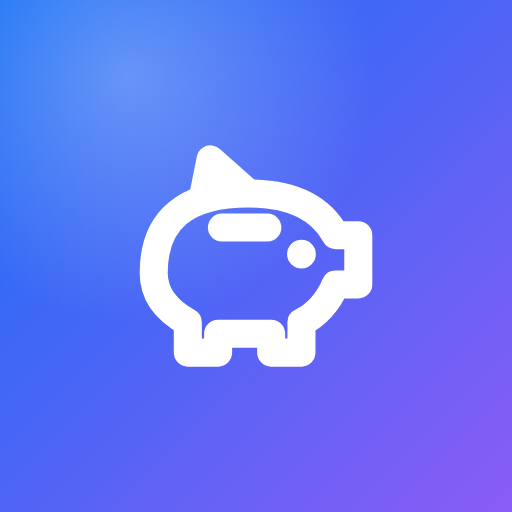
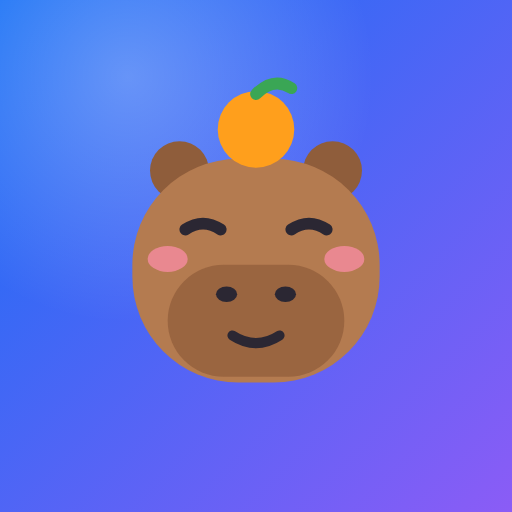
Site principal: abertura só com o rosto da capivara e ícone novo
Claude-Session: https://claude.ai/code/session_017XzR5RWQPSYUH6UPubdo7U

Changed region(s): [[0.25, 0.125, 0.75, 0.75]]

diff --git a/index.html b/index.html
@@ -974,6 +974,15 @@ html.auth .auth-screen { display: grid; place-items: center; }
 .ob-splash.gone .stk { transform: translate(var(--ox), var(--oy)) rotate(25deg) scale(.6); }
 .ob-splash .ob-word { position: relative; z-index: 1; color: var(--ink); transition: transform .6s cubic-bezier(.6, 0, .3, 1), opacity .4s; }
 .ob-splash.gone .ob-word { transform: scale(1.15); opacity: 0; }
+/* abertura no estilo Duolingo: só o rosto da capivara, grande, pulando pra dentro, a laranja quicando */
+.ob-face { width: clamp(170px, 44vw, 240px); aspect-ratio: 1; filter: drop-shadow(0 26px 34px rgba(110, 70, 40, .35)); animation: face-in .8s cubic-bezier(.2, .9, .25, 1.45) .1s both, face-chill 2.4s ease-in-out 1s infinite; transition: transform .55s cubic-bezier(.6, 0, .3, 1), opacity .4s; }
+.ob-face svg { width: 100%; height: 100%; display: block; overflow: visible; }
+.ob-face .fruit { transform-box: fill-box; transform-origin: 50% 100%; animation: face-fruit .6s cubic-bezier(.3, 1.6, .5, 1) .75s 2 both; }
+:root[data-theme="dark"] .ob-face { filter: drop-shadow(0 0 40px rgba(255, 190, 120, .25)) drop-shadow(0 24px 30px rgba(0, 0, 0, .5)); }
+.ob-splash.gone .ob-face { transform: scale(1.25); opacity: 0; }
+@keyframes face-in { from { opacity: 0; transform: translateY(40px) scale(.35) rotate(-10deg); } }
+@keyframes face-chill { 50% { transform: rotate(-4deg) translateY(-4px); } }
+@keyframes face-fruit { 40% { transform: translateY(-38%) rotate(-14deg); } 70% { transform: translateY(4%); } }
 .ob-word { text-align: center; }
 .ob-mascot { display: block; width: clamp(72px, 9vw, 96px); margin: 0 auto 14px; animation: ob-word .9s cubic-bezier(.2, .9, .25, 1.4) .1s both; } .ob-mascot .av { width: 100%; height: auto; aspect-ratio: 1; box-shadow: 0 18px 36px -16px rgba(140, 90, 50, .55); }
 .ob-word > span { display: block; font-size: clamp(2.8rem, 10vw, 5rem); font-weight: 600; letter-spacing: -.055em; line-height: 1; animation: ob-word .9s cubic-bezier(.2, .9, .25, 1.25) .25s both; }
@@ -6543,9 +6552,8 @@ button:focus-visible, a:focus-visible, [role="button"]:focus-visible, [tabindex]
     const first = !reduced && !showOnboarding.seen; showOnboarding.seen = true;
     let introDone = false;
     $('#authScreen').innerHTML = `<div class="ob-bg" aria-hidden="true"><i></i><i></i><i></i></div><div class="ob-stk" id="obStk"></div>
-      ${first ? `<div class="ob-splash" id="obSplash" aria-hidden="true">${[[22, 24, 1.6, -12, 'moeda'], [76, 20, 1.25, 14, 'grafico'], [16, 70, 1.2, 10, 'cartao'], [80, 72, 1.7, -8, 'cofrinho'], [50, 12, .9, 6, 'carteira'], [52, 86, 1, -10, 'nota']]
-          .map(([x, y, sz, rot, f], n) => stickerHtml(x, y, sz, rot, f, STK_COLORS[n], n, `--ox:${(x - 50) * 3}vw;--oy:${(y - 50) * 3}vh`)).join('')}
-        <div class="ob-word"><i class="ob-mascot">${avBadge('capivara')}</i><span>Capi</span><small>seu dinheiro, de boa</small></div></div>` : ''}
+      ${first ? `<div class="ob-splash" id="obSplash" aria-hidden="true">
+        <div class="ob-face"><svg viewBox="0 0 64 64">${AVATARS.capivara.svg}</svg></div></div>` : ''}
       <div class="ob" id="ob">
       <div class="ob-top"><div class="ob-dots" id="obDots"></div><div class="ob-tr">
         <button type="button" class="ob-theme" id="obTheme" role="switch" aria-checked="${document.documentElement.dataset.theme === 'dark'}" aria-label="Modo escuro" title="Modo escuro">

diff --git a/preview.html b/preview.html
@@ -974,6 +974,15 @@ html.auth .auth-screen { display: grid; place-items: center; }
 .ob-splash.gone .stk { transform: translate(var(--ox), var(--oy)) rotate(25deg) scale(.6); }
 .ob-splash .ob-word { position: relative; z-index: 1; color: var(--ink); transition: transform .6s cubic-bezier(.6, 0, .3, 1), opacity .4s; }
 .ob-splash.gone .ob-word { transform: scale(1.15); opacity: 0; }
+/* abertura no estilo Duolingo: só o rosto da capivara, grande, pulando pra dentro, a laranja quicando */
+.ob-face { width: clamp(170px, 44vw, 240px); aspect-ratio: 1; filter: drop-shadow(0 26px 34px rgba(110, 70, 40, .35)); animation: face-in .8s cubic-bezier(.2, .9, .25, 1.45) .1s both, face-chill 2.4s ease-in-out 1s infinite; transition: transform .55s cubic-bezier(.6, 0, .3, 1), opacity .4s; }
+.ob-face svg { width: 100%; height: 100%; display: block; overflow: visible; }
+.ob-face .fruit { transform-box: fill-box; transform-origin: 50% 100%; animation: face-fruit .6s cubic-bezier(.3, 1.6, .5, 1) .75s 2 both; }
+:root[data-theme="dark"] .ob-face { filter: drop-shadow(0 0 40px rgba(255, 190, 120, .25)) drop-shadow(0 24px 30px rgba(0, 0, 0, .5)); }
+.ob-splash.gone .ob-face { transform: scale(1.25); opacity: 0; }
+@keyframes face-in { from { opacity: 0; transform: translateY(40px) scale(.35) rotate(-10deg); } }
+@keyframes face-chill { 50% { transform: rotate(-4deg) translateY(-4px); } }
+@keyframes face-fruit { 40% { transform: translateY(-38%) rotate(-14deg); } 70% { transform: translateY(4%); } }
 .ob-word { text-align: center; }
 .ob-mascot { display: block; width: clamp(72px, 9vw, 96px); margin: 0 auto 14px; animation: ob-word .9s cubic-bezier(.2, .9, .25, 1.4) .1s both; } .ob-mascot .av { width: 100%; height: auto; aspect-ratio: 1; box-shadow: 0 18px 36px -16px rgba(140, 90, 50, .55); }
 .ob-word > span { display: block; font-size: clamp(2.8rem, 10vw, 5rem); font-weight: 600; letter-spacing: -.055em; line-height: 1; animation: ob-word .9s cubic-bezier(.2, .9, .25, 1.25) .25s both; }
@@ -6543,9 +6552,8 @@ button:focus-visible, a:focus-visible, [role="button"]:focus-visible, [tabindex]
     const first = !reduced && !showOnboarding.seen; showOnboarding.seen = true;
     let introDone = false;
     $('#authScreen').innerHTML = `<div class="ob-bg" aria-hidden="true"><i></i><i></i><i></i></div><div class="ob-stk" id="obStk"></div>
-      ${first ? `<div class="ob-splash" id="obSplash" aria-hidden="true">${[[22, 24, 1.6, -12, 'moeda'], [76, 20, 1.25, 14, 'grafico'], [16, 70, 1.2, 10, 'cartao'], [80, 72, 1.7, -8, 'cofrinho'], [50, 12, .9, 6, 'carteira'], [52, 86, 1, -10, 'nota']]
-          .map(([x, y, sz, rot, f], n) => stickerHtml(x, y, sz, rot, f, STK_COLORS[n], n, `--ox:${(x - 50) * 3}vw;--oy:${(y - 50) * 3}vh`)).join('')}
-        <div class="ob-word"><i class="ob-mascot">${avBadge('capivara')}</i><span>Capi</span><small>seu dinheiro, de boa</small></div></div>` : ''}
+      ${first ? `<div class="ob-splash" id="obSplash" aria-hidden="true">
+        <div class="ob-face"><svg viewBox="0 0 64 64">${AVATARS.capivara.svg}</svg></div></div>` : ''}
       <div class="ob" id="ob">
       <div class="ob-top"><div class="ob-dots" id="obDots"></div><div class="ob-tr">
         <button type="button" class="ob-theme" id="obTheme" role="switch" aria-checked="${document.documentElement.dataset.theme === 'dark'}" aria-label="Modo escuro" title="Modo escuro">

diff --git a/sw.js b/sw.js
@@ -1,6 +1,6 @@
 // Service worker: guarda o app no aparelho para abrir sem internet.
 // Página: tenta a rede primeiro (pega atualizações) e cai no que está guardado se estiver offline.
-const CACHE = 'orcamento-v6';
+const CACHE = 'orcamento-v7';
 const FILES = ['./', './index.html', './manifest.webmanifest', './favicon.svg', './icon-192.png', './icon-512.png', './icon-maskable-512.png', './apple-touch-icon.png'];
 
 self.addEventListener('install', e => {
